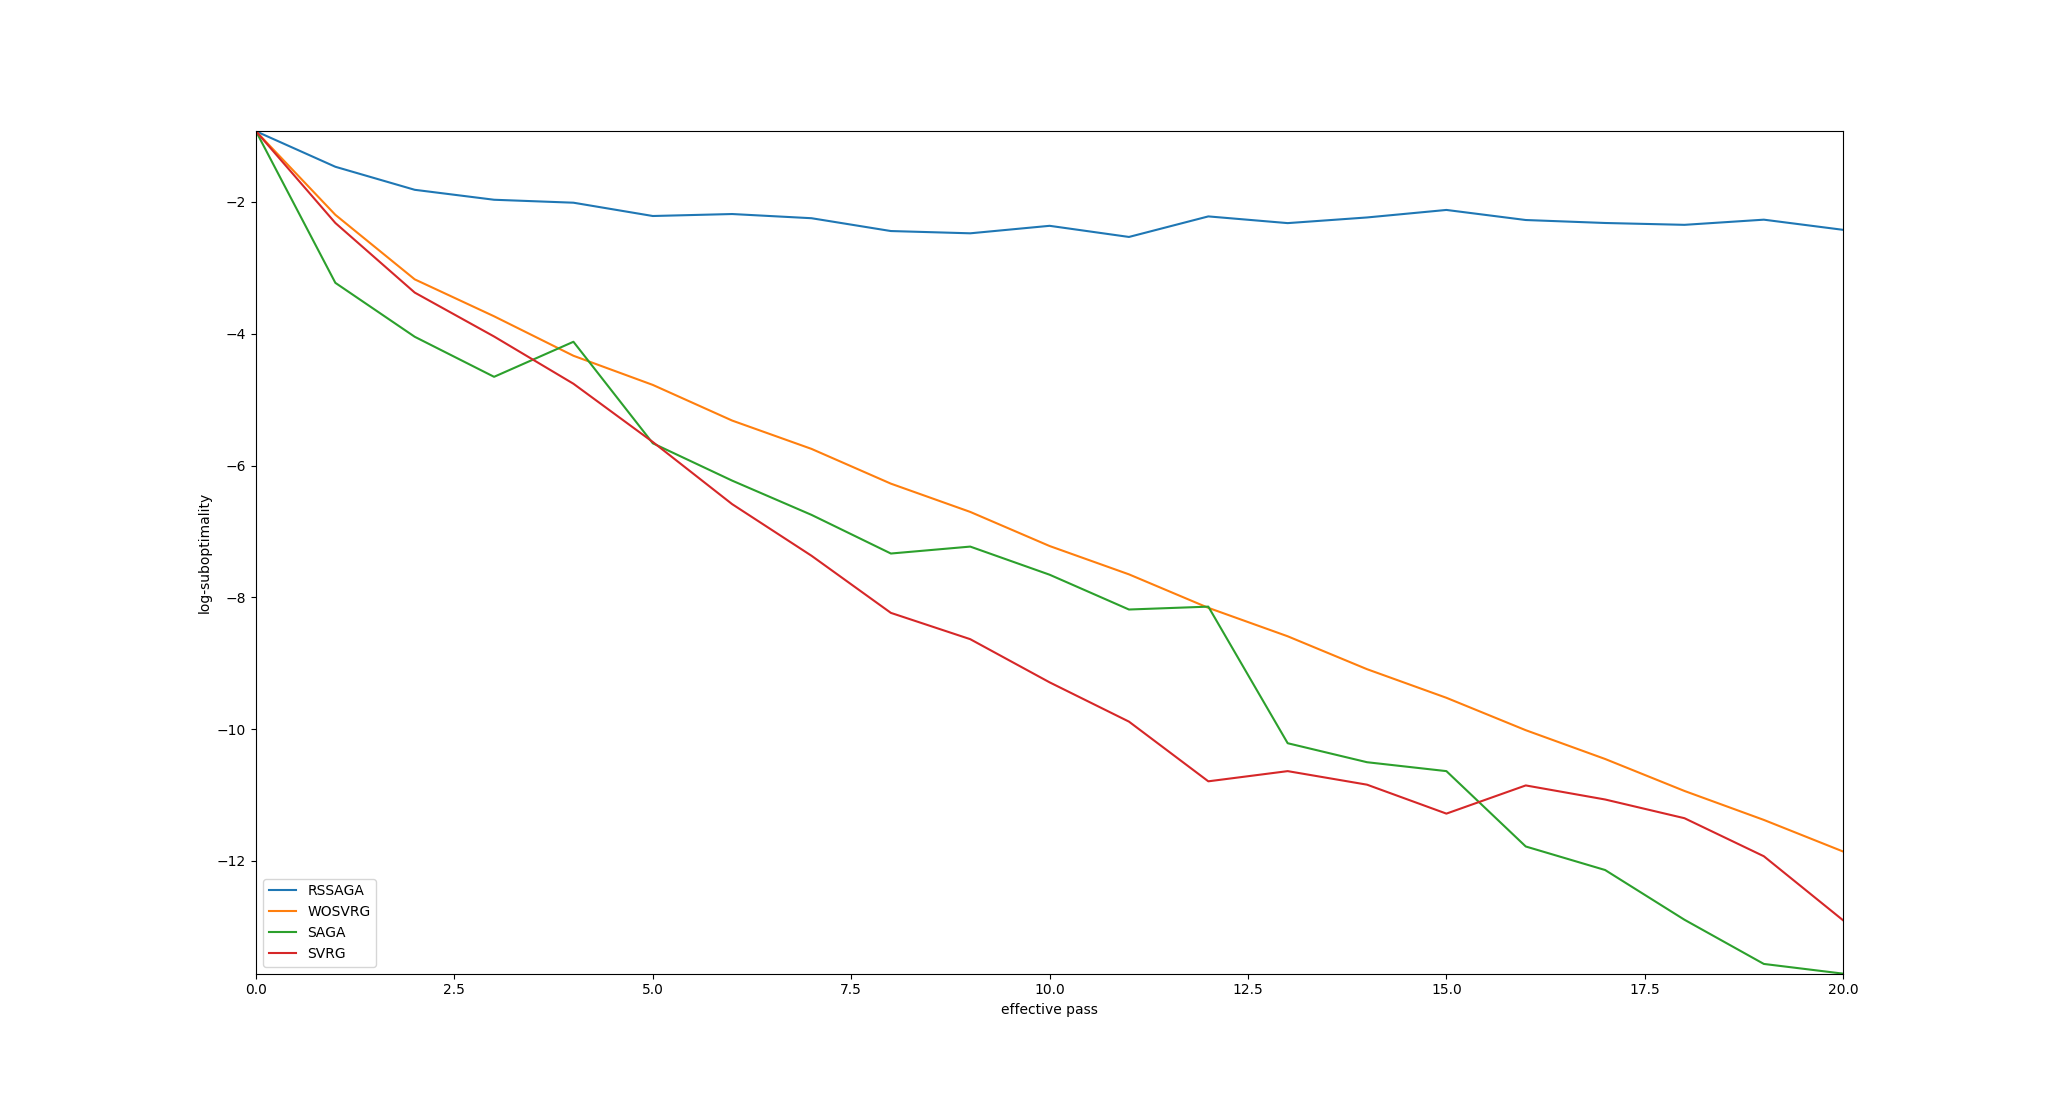
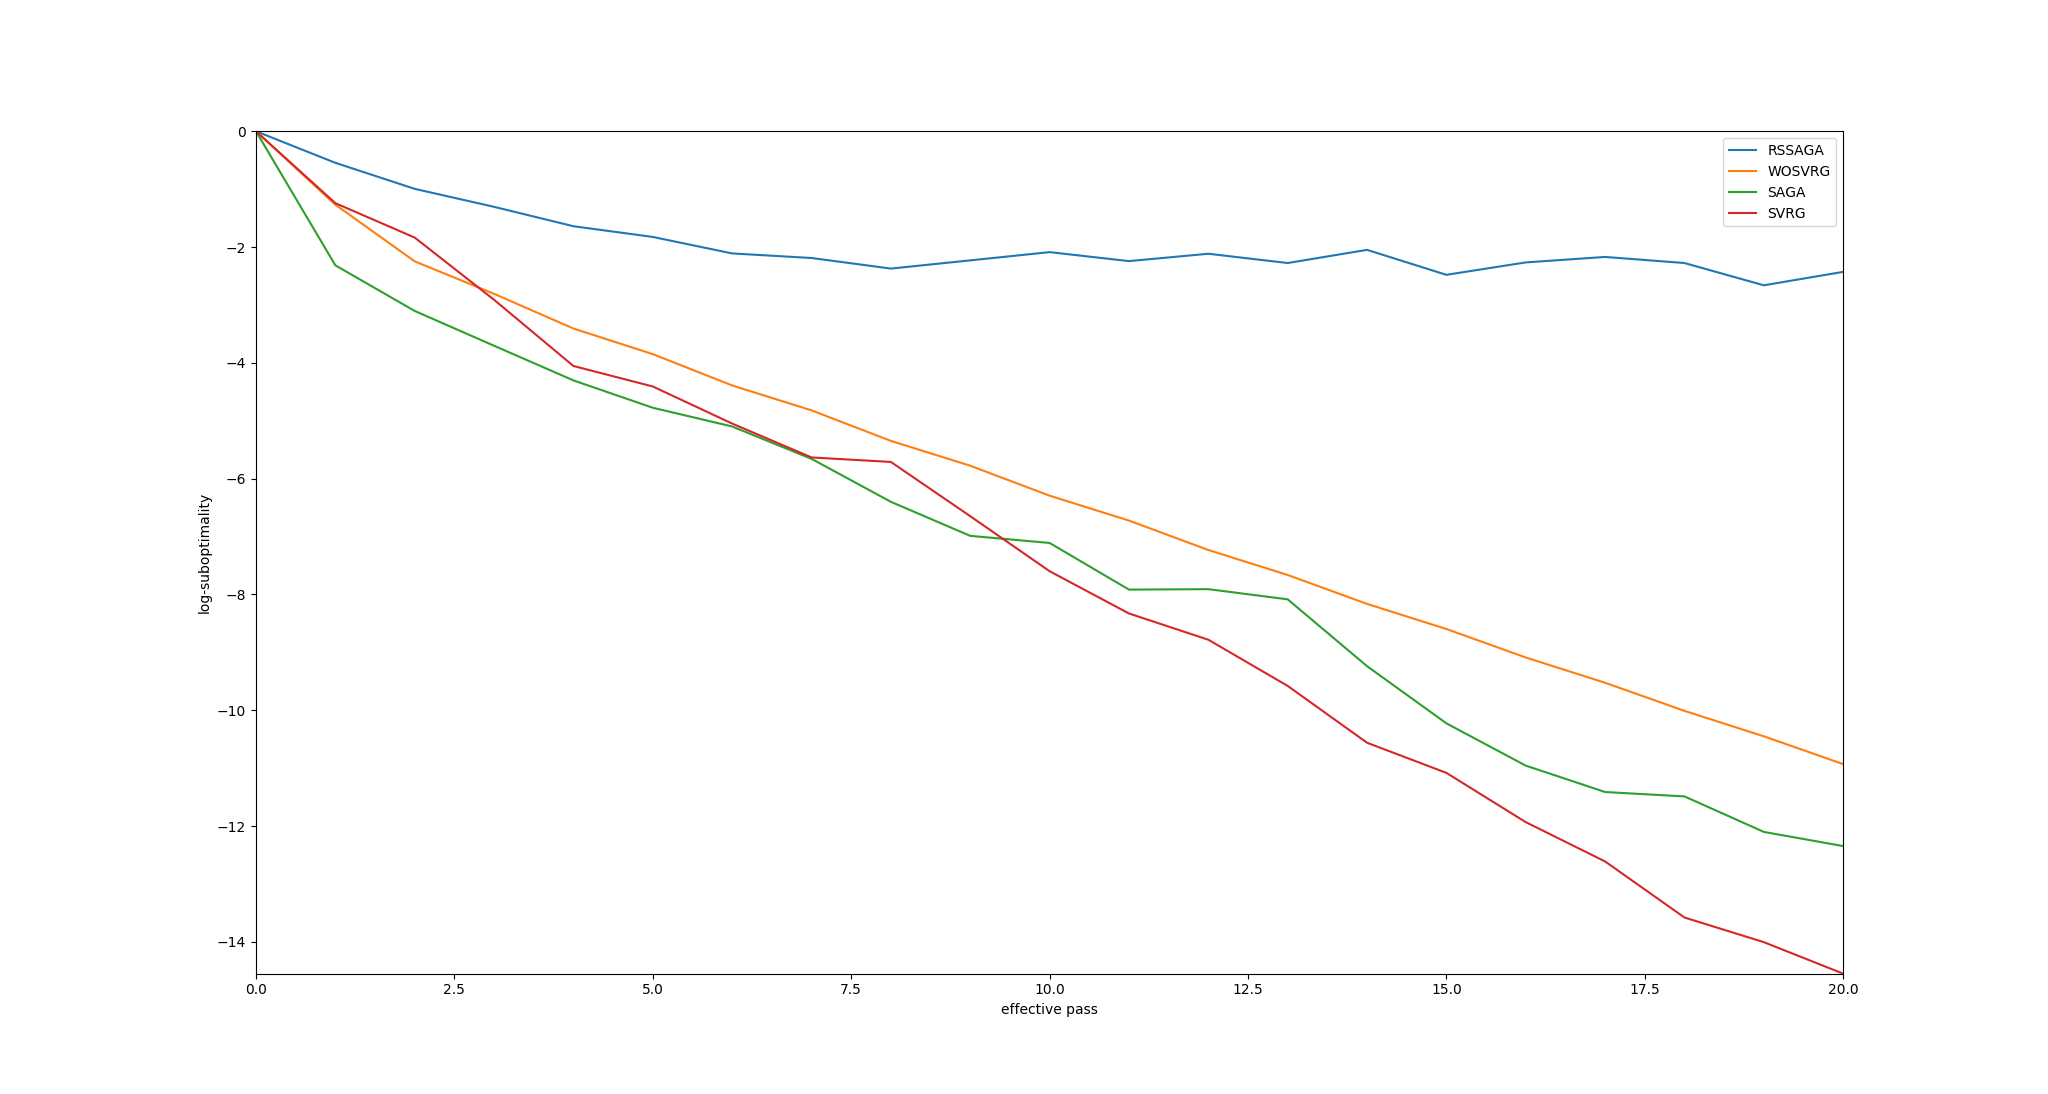
SGD works like a charm

diff --git a/log.py b/log.py
@@ -1,6 +1,7 @@
 import comm
 import math
 import numpy as np
+from sklearn.metrics import accuracy_score
 from numpy import linalg as LA
 from sklearn.metrics import explained_variance_score
 from sklearn.preprocessing import LabelBinarizer
@@ -21,27 +22,31 @@ class Model:
         self.C = C
         self.iterNum = iterNum
         self.optSolution = 0.381876662416058720861400388457695953547954559326171875
-        self.initCost = None
         self.results = []
 
     def Hypothesis(self, W, X):
-        return np.dot(X, W) # return a m-by-1 vector
+        tmpH = np.exp(np.dot(X, W/2)) # return a m-by-1 vector
+        denominator = tmpH + 1/tmpH
+        return tmpH / denominator
+
 
     def CostFunc(self, W, X, y):
-        cost = 1/2 * np.average(np.square(self.Hypothesis(W, X) - y))
+        m, n = X.shape # m: sample size, n: feature size
+        cost = np.average(np.log(1 + np.exp(np.multiply(np.dot(X, W), -y))))
         regTerm = self.C/2 * np.sum(np.square(W))
         return cost + regTerm
 
     def Gradient(self, W, X, y):
         # @NOTE X MUST an m*n matrix, where m denotes #samples, n denotes #features
         m, n = X.shape # m: sample size, n: feature size
-        return np.dot(1/m *  X.T, np.dot(X, W) - y) + self.C * W # n-by-1 vector
+        tmpExp = np.exp(np.multiply(np.dot(X, W), -y))
+        return np.average(np.divide(-(y*tmpExp).reshape([m, 1]) * X, 1 + tmpExp.reshape([m, 1])), axis=0) + self.C * W # n-by-1 vector
 
     def PrintCost(self, W, X, y, numEpoch):
         currentCost = self.CostFunc(W, X, y)
         print("epoch: %2d, cost: %.16f" % (numEpoch, currentCost))
         # we need to store the cost functions so that we can plot them
-        self.results.append([numEpoch, math.log((currentCost - self.optSolution)/(self.initCost - self.optSolution), 10)])
+        #self.results.append([numEpoch, math.log(currentCost - self.optSolution, 10)])
 
     def Fit(self, X, y, solver='SVRG'):
         # deal with data first
@@ -50,25 +55,24 @@ class Model:
         self.results.clear() # we need to store each epoch's cost so that we can plot them
         #initialize W
         self.W = np.random.rand(n) * 1e-4
-        self.initCost = self.CostFunc(self.W, X_train, y)
 
         # find optimal W
         if solver == 'SVRG':
             self.W = self.SVRG(X_train, y, m, int(self.iterNum/m))
         elif solver == 'SGD':
-            self.W = self.SGD(X_train, y)  # SGD optimization
+            self.W = self.SGD(X_train, y)
         elif solver == 'SAGA':
-            self.W = self.SAGA(X_train, y)  # SGD optimization
+            self.W = self.SAGA(X_train, y)
         elif solver == 'WOSVRG':
             self.W = self.WOSVRG(X_train, y, m, int(self.iterNum/m))
         elif solver == 'WOSAGA':
-            self.W = self.WOSAGA(X_train, y)  # SGD optimization
+            self.W = self.WOSAGA(X_train, y)
         elif solver == 'RSSAGA':
-            self.W = self.RSSAGA(X_train, y)  # SGD optimization
+            self.W = self.RSSAGA(X_train, y)
 
         print("total cost: %.16f" % (self.CostFunc(self.W, X_train, y)))
 
-    def SGD(self, X_train, y_train):
+    def SGD(self, X_train, y_train):  # @TODO
         # iteration: SGD algorithm
         W = self.W
         optW = 0
@@ -77,7 +81,7 @@ class Model:
         for t in range(self.iterNum):
             index = np.random.choice(m, batchSize) # minibatch size: 10
             eta = min(2/(self.C * (t + 2)), 0.01)
-            W = W - eta * (np.dot(1/batchSize * X_train[index].T, np.dot(X_train[index], W) - y_train[index]) + self.C * W)
+            W = W - eta * self.Gradient(W, X_train[index], y_train[index])
             optW += 2 * (t + 1) * W / (self.iterNum * (self.iterNum + 1))
 
             # print and plot
@@ -212,17 +216,18 @@ class Model:
     def Predict(self, X):
         X_test = np.append(np.ones((X.shape[0], 1)), X, axis=1)
         Y_test = self.Hypothesis(self.W, X_test)
-        return Y_test
+        labels = np.ones_like(Y_test)
+        labels[np.argwhere(Y_test < 0.5)] = -1
+        return labels
 
     def Score(self, X, y):
         y_pred = self.Predict(X)
-        return explained_variance_score(y, y_pred)
-
+        return accuracy_score(y, y_pred)
 
 if __name__ == '__main__':
     # load data
-    X_train, X_test, y_train, y_test = comm.LoadYearPredictionData(test_size=0.05, scale=True)
-    model = Model(tol=1e-4, C=1e-3, iterNum=X_train.shape[0] * 20 + 1)
+    X_train, X_test, y_train, y_test = comm.LoadCovtypeData(test_size=0.05)
+    model = Model(tol=1e-4, C=1e-3, iterNum=X_train.shape[0] * 3 + 1)
 
     # a new figure
     plt.figure("ridge regression on YearPredictionMSD")
@@ -233,10 +238,10 @@ if __name__ == '__main__':
 
     #solvers = ['SGD', 'SVRG', 'SAGA', 'WOSVRG']
     #solvers = ['WOSVRG', 'SAGA']
-    solvers = ['RSSAGA', 'WOSVRG', 'SAGA', 'SVRG']
+    #solvers = ['RSSAGA', 'WOSVRG', 'SAGA', 'SVRG']
     #solvers = ['SVRG']
     #solvers = ['RSSAGA']
-    #solvers = ['WOSVRG']
+    solvers = ['SGD']
     for solver in solvers:
         # fit model
         print("\nFitting data with %s algorithm..." % solver)
@@ -246,17 +251,17 @@ if __name__ == '__main__':
         print("test accuracy:", model.Score(X_test, y_test))
 
         results = np.array(model.results)
-        plt.plot(results[:, 0], results[:, 1], label=solver)
+        #plt.plot(results[:, 0], results[:, 1], label=solver)
 
-        x_min = min(results[:, 0].min(), x_min)
-        x_max = max(results[:, 0].max(), x_max)
-        y_min = min(results[:, 1].min(), y_min)
-        y_max = max(results[:, 1].max(), y_max)
-
-    plt.legend()
-    plt.xlabel('effective pass')
-    plt.ylabel('log-suboptimality')
-    plt.xlim(x_min, x_max)
-    plt.ylim(y_min, y_max)
-    plt.show()
-    plt.savefig('ridge.png', dpi=96)
+    #     x_min = min(results[:, 0].min(), x_min)
+    #     x_max = max(results[:, 0].max(), x_max)
+    #     y_min = min(results[:, 1].min(), y_min)
+    #     y_max = max(results[:, 1].max(), y_max)
+    #
+    # plt.legend()
+    # plt.xlabel('effective pass')
+    # plt.ylabel('log-suboptimality')
+    # plt.xlim(x_min, x_max)
+    # plt.ylim(y_min, y_max)
+    # plt.show()
+    # plt.savefig('ridge.png', dpi=96)

diff --git a/comm.py b/comm.py
@@ -9,6 +9,7 @@ from sklearn.datasets import load_svmlight_file
 from sklearn import preprocessing
 from sklearn.datasets import fetch_rcv1
 import numpy as np
+import pickle
 
 def LoadOpenMLData(dataset_id=150, test_size=0.33, random_state=42):
     """ Load data from openml.org
@@ -69,4 +70,36 @@ def LoadSidoData(dataPath='../data/sido/sido2_train.data', targetPath='../data/s
     else:
         X = dataset
         y = targets[:, 0]
+    return train_test_split(X, y, test_size=test_size, random_state=random_state)
+
+def unpickle(file):
+    import pickle
+    with open(file, 'rb') as fo:
+        dict = pickle.load(fo, encoding='bytes')
+    return dict
+
+def LoadCIFARData(datapath='../data/cifar/'):
+    X_train = None
+    y_train = None
+    for i in range(5):
+        filename = datapath + 'data_batch_' + str(i+1)
+        tmpdict = unpickle(filename)
+        if X_train is None:
+            X_train = np.array(tmpdict[b'data'])
+            y_train = np.array(tmpdict[b'labels'])
+        else:
+            X_train = np.append(X_train, np.array(tmpdict[b'data']), axis=0)
+            y_train = np.append(y_train, np.array(tmpdict[b'labels']), axis=0)
+
+    filename = datapath + 'test_batch'
+    tmpdict = unpickle(filename)
+    X_test = np.array(tmpdict[b'data'])
+    y_test = np.array(tmpdict[b'labels'])
+    return X_train, X_test, y_train, y_test
+
+def LoadCovtypeData(datapath='../data/covtype.libsvm.binary.scale', test_size=0.33, random_state=42):
+    data = load_svmlight_file(datapath)
+    X = data[0].toarray()
+    y = data[1]
+    y[np.argwhere(y == 2)] = -1
     return train_test_split(X, y, test_size=test_size, random_state=random_state)

diff --git a/logreg.py b/logreg.py
@@ -22,7 +22,7 @@ class Model:
         self.tol = tol
         self.C = C
         self.iterNum = iterNum
-        self.optSolution = 0.872841085854215270600775511411484330892562866210937500
+        self.optSolution = None
 
     def Hypothesis(self, W, X):
         tmpH = np.exp(np.dot(X, W))
